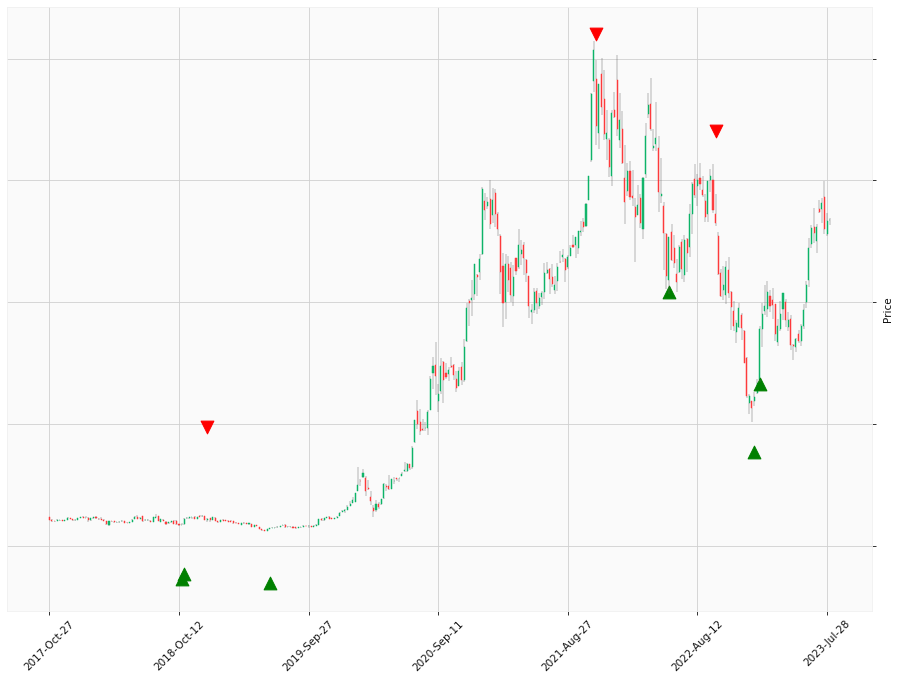
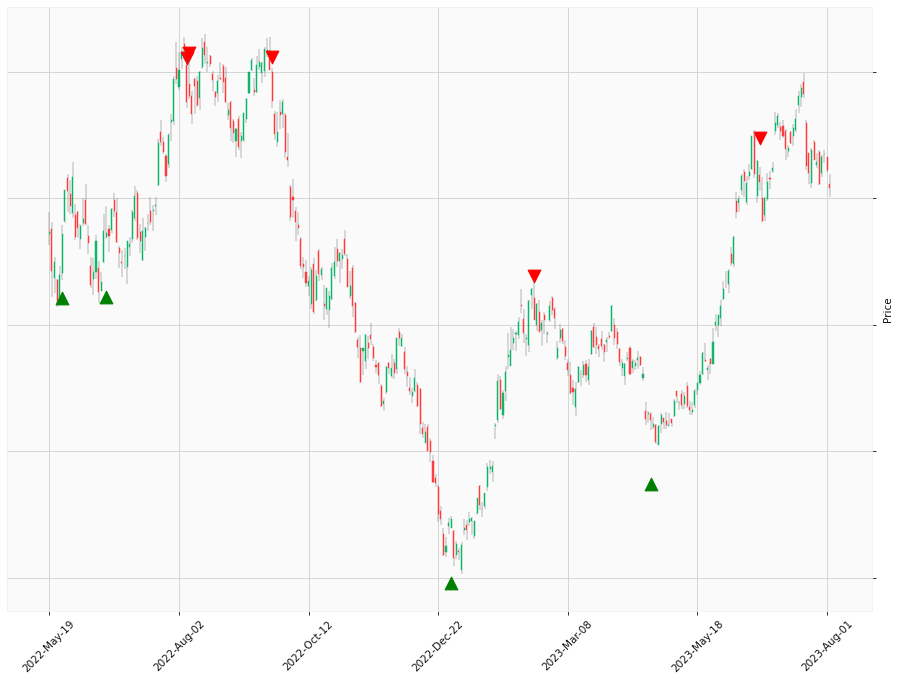
See https://github.com/HappyLabz/HappyLabz_v1/commit/7846088f0a5eca380a9ebbf04d2757d1cb7f81eb from refs/heads/main

diff --git a/SPY.md b/SPY.md
@@ -38,99 +38,123 @@
       </tr>
     <tr>
         <td>1</td>
-        <td>Short</td>
-        <td>Feb 02 2018 Close</td>
-        <td>-5.06 %</td>
-        <td>5.06 %</td>
-        <td>5.06 %</td>
+        <td>Long</td>
+        <td>Jun 22 2022 Close</td>
+        <td>14.77 %</td>
+        <td>14.77 %</td>
+        <td>14.77 %</td>
     </tr>
     <tr>
         <td>2</td>
         <td>Short</td>
-        <td>Feb 09 2018 Close</td>
-        <td>-3.48 %</td>
-        <td>8.55 %</td>
-        <td>8.72 %</td>
+        <td>Aug 16 2022 Close</td>
+        <td>-13.77 %</td>
+        <td>28.54 %</td>
+        <td>30.58 %</td>
     </tr>
     <tr>
         <td>3</td>
         <td>Long</td>
-        <td>Jan 04 2019 Close</td>
-        <td>27.47 %</td>
-        <td>36.02 %</td>
-        <td>38.59 %</td>
+        <td>Sep 28 2022 Close</td>
+        <td>-1.06 %</td>
+        <td>27.49 %</td>
+        <td>29.20 %</td>
     </tr>
     <tr>
         <td>4</td>
-        <td>Short</td>
-        <td>Jan 31 2020 Close</td>
-        <td>-21.23 %</td>
-        <td>57.25 %</td>
-        <td>68.02 %</td>
+        <td>Long</td>
+        <td>Oct 03 2022 Close</td>
+        <td>3.10 %</td>
+        <td>30.58 %</td>
+        <td>33.20 %</td>
     </tr>
     <tr>
         <td>5</td>
         <td>Long</td>
-        <td>Mar 27 2020 Close</td>
-        <td>11.66 %</td>
-        <td>68.91 %</td>
-        <td>87.61 %</td>
+        <td>Oct 04 2022 Close</td>
+        <td>-3.17 %</td>
+        <td>27.41 %</td>
+        <td>28.97 %</td>
     </tr>
     <tr>
         <td>6</td>
         <td>Long</td>
-        <td>Apr 24 2020 Close</td>
-        <td>55.99 %</td>
-        <td>124.90 %</td>
-        <td>192.66 %</td>
+        <td>Oct 13 2022 Close</td>
+        <td>11.19 %</td>
+        <td>38.60 %</td>
+        <td>43.40 %</td>
     </tr>
     <tr>
         <td>7</td>
         <td>Short</td>
-        <td>Sep 17 2021 Close</td>
-        <td>5.59 %</td>
-        <td>119.31 %</td>
-        <td>176.29 %</td>
+        <td>Dec 02 2022 Close</td>
+        <td>-5.08 %</td>
+        <td>43.68 %</td>
+        <td>50.69 %</td>
     </tr>
     <tr>
         <td>8</td>
-        <td>Short</td>
-        <td>Jan 07 2022 Close</td>
-        <td>-11.92 %</td>
-        <td>131.23 %</td>
-        <td>209.21 %</td>
+        <td>Long</td>
+        <td>Dec 21 2022 Close</td>
+        <td>-0.72 %</td>
+        <td>42.96 %</td>
+        <td>49.60 %</td>
     </tr>
     <tr>
         <td>9</td>
         <td>Long</td>
-        <td>Jun 03 2022 Close</td>
-        <td>-7.14 %</td>
-        <td>124.09 %</td>
-        <td>187.15 %</td>
+        <td>Dec 29 2022 Close</td>
+        <td>7.54 %</td>
+        <td>50.50 %</td>
+        <td>60.88 %</td>
     </tr>
     <tr>
         <td>10</td>
-        <td>Long</td>
-        <td>Jul 01 2022 Close</td>
-        <td>1.95 %</td>
-        <td>126.04 %</td>
-        <td>192.74 %</td>
+        <td>Short</td>
+        <td>Feb 03 2023 Close</td>
+        <td>-0.41 %</td>
+        <td>50.91 %</td>
+        <td>61.54 %</td>
     </tr>
     <tr>
         <td>11</td>
-        <td>Long</td>
-        <td>Jul 08 2022 Close</td>
-        <td>-3.70 %</td>
-        <td>122.34 %</td>
-        <td>181.91 %</td>
+        <td>Short</td>
+        <td>Feb 08 2023 Close</td>
+        <td>-4.61 %</td>
+        <td>55.52 %</td>
+        <td>68.98 %</td>
     </tr>
     <tr>
         <td>12</td>
         <td>Long</td>
-        <td>Oct 21 2022 Close</td>
-        <td>22.31 %</td>
-        <td>144.65 %</td>
-        <td>244.80 %</td>
+        <td>Mar 14 2023 Close</td>
+        <td>12.18 %</td>
+        <td>67.70 %</td>
+        <td>89.57 %</td>
+    </tr>
+    <tr>
+        <td>13</td>
+        <td>Short</td>
+        <td>Jun 16 2023 Close</td>
+        <td>3.58 %</td>
+        <td>64.12 %</td>
+        <td>82.78 %</td>
+    </tr>
+    <tr>
+        <td>14</td>
+        <td>Short</td>
+        <td>Jul 19 2023 Close</td>
+        <td>-0.60 %</td>
+        <td>64.71 %</td>
+        <td>83.87 %</td>
+    </tr>
+    <tr>
+        <td>15</td>
+        <td>Short</td>
+        <td>Jul 27 2023 Close</td>
+        <td>-0.52 %</td>
+        <td>65.23 %</td>
+        <td>84.83 %</td>
     </tr>
     
 </table>
@@ -146,23 +170,23 @@
     <tbody>
         <tr>
             <td>SPY (Buy and Hold)</td>
-            <td>2018-02-02 Close <b>-</b> 2023-07-31 Close</td>
-            <td>66.20 %</td>
+            <td>2022-06-22 Close <b>-</b> 2023-08-02 Close</td>
+            <td>20.23 %</td>
         </tr>
         <tr>
             <td>SPY (HLT Cumulative % Gain)</td>
-            <td>2018-02-02 Close <b>-</b> 2023-07-31 Close</td>
-            <td>144.65 %</td>
+            <td>2022-06-22 Close <b>-</b> 2023-08-02 Close</td>
+            <td>65.23 %</td>
         </tr>
         <tr>
             <td>SPY (HLT Reinvested % Gain)</td>
-            <td>2018-02-02 Close <b>-</b> 2023-07-31 Close</td>
-            <td>244.80 %</td>
+            <td>2022-06-22 Close <b>-</b> 2023-08-02 Close</td>
+            <td>84.83 %</td>
         </tr>
         <tr>
             <td>S&P 500 (Buy and Hold)</td>
-            <td>2018-02-02 Close <b>-</b> 2023-07-31 Close</td>
-            <td>66.19 %</td>
+            <td>2022-06-22 Close <b>-</b> 2023-08-02 Close</td>
+            <td>20.23 %</td>
         </tr>
     </tbody>
 </table>

diff --git a/TSLA.md b/TSLA.md
@@ -39,74 +39,74 @@
     <tr>
         <td>1</td>
         <td>Long</td>
-        <td>Oct 19 2018 Close</td>
-        <td>27.27 %</td>
-        <td>27.27 %</td>
-        <td>27.27 %</td>
+        <td>May 26 2022 Close</td>
+        <td>0.07 %</td>
+        <td>0.07 %</td>
+        <td>0.07 %</td>
     </tr>
     <tr>
         <td>2</td>
         <td>Long</td>
-        <td>Oct 26 2018 Close</td>
-        <td>0.90 %</td>
-        <td>28.17 %</td>
-        <td>28.41 %</td>
+        <td>Jun 22 2022 Close</td>
+        <td>22.06 %</td>
+        <td>22.14 %</td>
+        <td>22.15 %</td>
     </tr>
     <tr>
         <td>3</td>
         <td>Short</td>
-        <td>Dec 28 2018 Close</td>
-        <td>-35.63 %</td>
-        <td>63.79 %</td>
-        <td>74.16 %</td>
+        <td>Aug 05 2022 Close</td>
+        <td>0.78 %</td>
+        <td>21.35 %</td>
+        <td>21.20 %</td>
     </tr>
     <tr>
         <td>4</td>
-        <td>Long</td>
-        <td>Jun 14 2019 Close</td>
-        <td>2304.20 %</td>
-        <td>2367.99 %</td>
-        <td>4087.19 %</td>
+        <td>Short</td>
+        <td>Aug 08 2022 Close</td>
+        <td>-0.63 %</td>
+        <td>21.99 %</td>
+        <td>21.96 %</td>
     </tr>
     <tr>
         <td>5</td>
         <td>Short</td>
-        <td>Nov 12 2021 Close</td>
-        <td>-26.49 %</td>
-        <td>2394.48 %</td>
-        <td>5196.53 %</td>
+        <td>Sep 22 2022 Close</td>
+        <td>-57.32 %</td>
+        <td>79.30 %</td>
+        <td>91.87 %</td>
     </tr>
     <tr>
         <td>6</td>
         <td>Long</td>
-        <td>May 27 2022 Close</td>
-        <td>4.75 %</td>
-        <td>2399.24 %</td>
-        <td>5448.38 %</td>
+        <td>Dec 30 2022 Close</td>
+        <td>64.02 %</td>
+        <td>143.32 %</td>
+        <td>214.70 %</td>
     </tr>
     <tr>
         <td>7</td>
         <td>Short</td>
-        <td>Sep 30 2022 Close</td>
-        <td>-53.85 %</td>
-        <td>2453.09 %</td>
-        <td>8436.45 %</td>
+        <td>Feb 16 2023 Close</td>
+        <td>-19.55 %</td>
+        <td>162.87 %</td>
+        <td>276.21 %</td>
     </tr>
     <tr>
         <td>8</td>
         <td>Long</td>
-        <td>Jan 13 2023 Close</td>
-        <td>45.34 %</td>
-        <td>2498.44 %</td>
-        <td>12307.14 %</td>
+        <td>Apr 24 2023 Close</td>
+        <td>57.86 %</td>
+        <td>220.73 %</td>
+        <td>493.88 %</td>
     </tr>
     <tr>
         <td>9</td>
-        <td>Long</td>
-        <td>Jan 27 2023 Close</td>
-        <td>50.33 %</td>
-        <td>2548.76 %</td>
-        <td>18551.17 %</td>
+        <td>Short</td>
+        <td>Jun 23 2023 Close</td>
+        <td>-0.97 %</td>
+        <td>221.70 %</td>
+        <td>499.65 %</td>
     </tr>
     
 </table>
@@ -122,23 +122,23 @@
     <tbody>
         <tr>
             <td>TSLA (Buy and Hold)</td>
-            <td>2018-10-19 Close <b>-</b> 2023-07-31 Close</td>
-            <td>1442.87 %</td>
+            <td>2022-05-26 Close <b>-</b> 2023-08-02 Close</td>
+            <td>7.71 %</td>
         </tr>
         <tr>
             <td>TSLA (HLT Cumulative % Gain)</td>
-            <td>2018-10-19 Close <b>-</b> 2023-07-31 Close</td>
-            <td>2548.76 %</td>
+            <td>2022-05-26 Close <b>-</b> 2023-08-02 Close</td>
+            <td>221.70 %</td>
         </tr>
         <tr>
             <td>TSLA (HLT Reinvested % Gain)</td>
-            <td>2018-10-19 Close <b>-</b> 2023-07-31 Close</td>
-            <td>18551.17 %</td>
+            <td>2022-05-26 Close <b>-</b> 2023-08-02 Close</td>
+            <td>499.65 %</td>
         </tr>
         <tr>
             <td>S&P 500 (Buy and Hold)</td>
-            <td>2018-10-19 Close <b>-</b> 2023-07-31 Close</td>
-            <td>65.71 %</td>
+            <td>2022-05-26 Close <b>-</b> 2023-08-02 Close</td>
+            <td>11.06 %</td>
         </tr>
     </tbody>
 </table>

diff --git a/index.md b/index.md
@@ -101,7 +101,7 @@
         <h2 id="aapl"><a href="{% link navigation/blocked.md %}">AAPL</a></h2>
         <ul>
             <li>DAY: <b><span style="color: #167816;">Long</span></b> at 145.91 as of close <br>Mar 02 2023</li>
-            <li>DELTA: <b><span style="color: #167816;">50.58 (34.67%)</span></b> as of close<br>Aug 01 2023</li>
+            <li>DELTA: <b><span style="color: #167816;">50.58 (34.67%)</span></b> as of close<br>Aug 02 2023</li>
             <li>WEEK: <b><span style="color: #167816;">Long</span></b> at 134.76 as of close <br>Jan 13 2023</li>
         </ul>
     </div>
@@ -109,7 +109,7 @@
         <h2 id="amzn"><a href="{% link navigation/blocked.md %}">AMZN</a></h2>
         <ul>
             <li>DAY: <b><span style="color: #b91c1c;">Short</span></b> at 128.36 as of close <br>Jul 06 2023</li>
-            <li>DELTA: <b><span style="color: #167816;">5.32 (4.14%)</span></b> as of close<br>Aug 01 2023</li>
+            <li>DELTA: <b><span style="color: #167816;">5.32 (4.14%)</span></b> as of close<br>Aug 02 2023</li>
             <li>WEEK: <b><span style="color: #167816;">Long</span></b> at 98.12 as of close <br>Jan 13 2023</li>
         </ul>
     </div>
@@ -117,7 +117,7 @@
         <h2 id="msft"><a href="{% link navigation/blocked.md %}">MSFT</a></h2>
         <ul>
             <li>DAY: <b><span style="color: #b91c1c;">Short</span></b> at 338.05 as of close <br>Jun 20 2023</li>
-            <li>DELTA: <b><span style="color: #b91c1c;">-2.13 (-0.63%)</span></b> as of close<br>Aug 01 2023</li>
+            <li>DELTA: <b><span style="color: #b91c1c;">-2.13 (-0.63%)</span></b> as of close<br>Aug 02 2023</li>
             <li>WEEK: <b><span style="color: #167816;">Long</span></b> at 241.22 as of close <br>Nov 18 2022</li>
         </ul>
     </div>
@@ -125,7 +125,7 @@
         <h2 id="tsla"><a href="{% link TSLA.md %}">TSLA <span style="color:#0369a1;">&bigstar;</span></a></h2>
         <ul>
             <li>DAY: <b><span style="color: #b91c1c;">Short</span></b> at 256.60 as of close <br>Jun 23 2023</li>
-            <li>DELTA: <b><span style="color: #167816;">10.89 (4.24%)</span></b> as of close<br>Aug 01 2023</li>
+            <li>DELTA: <b><span style="color: #167816;">10.89 (4.24%)</span></b> as of close<br>Aug 02 2023</li>
             <li>WEEK: <b><span style="color: #167816;">Long</span></b> at 177.90 as of close <br>Jan 27 2023</li>
         </ul>
     </div>
@@ -133,7 +133,7 @@
         <h2 id="spy"><a href="{% link navigation/blocked.md %}">SPY</a></h2>
         <ul>
             <li>DAY: <b><span style="color: #b91c1c;">Short</span></b> at 452.49 as of close <br>Jul 27 2023</li>
-            <li>DELTA: <b><span style="color: #167816;">5.29 (1.17%)</span></b> as of close<br>Aug 01 2023</li>
+            <li>DELTA: <b><span style="color: #167816;">5.29 (1.17%)</span></b> as of close<br>Aug 02 2023</li>
             <li>WEEK: <b><span style="color: #167816;">Long</span></b> at 374.29 as of close <br>Oct 21 2022</li>
         </ul>
     </div>
